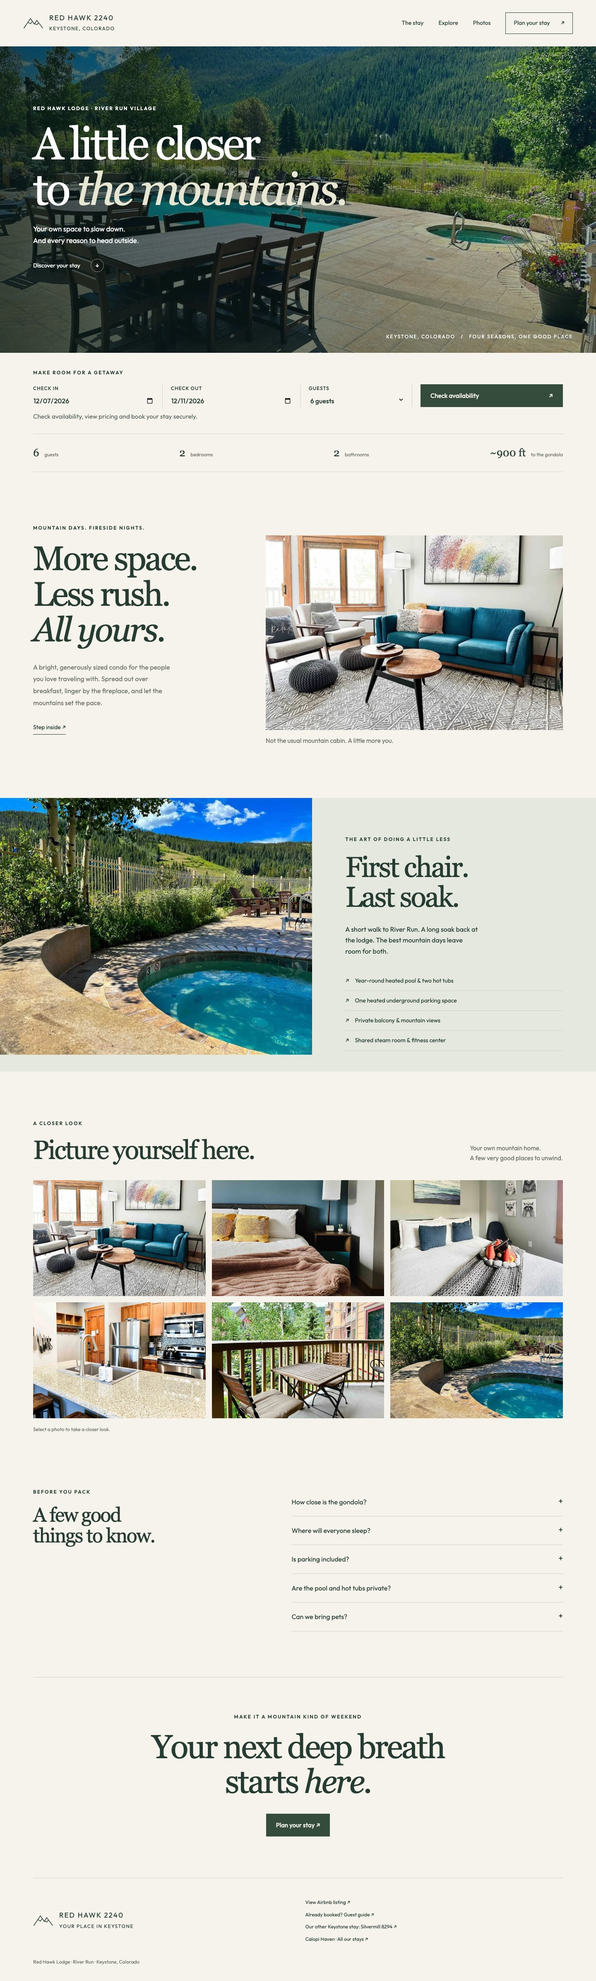
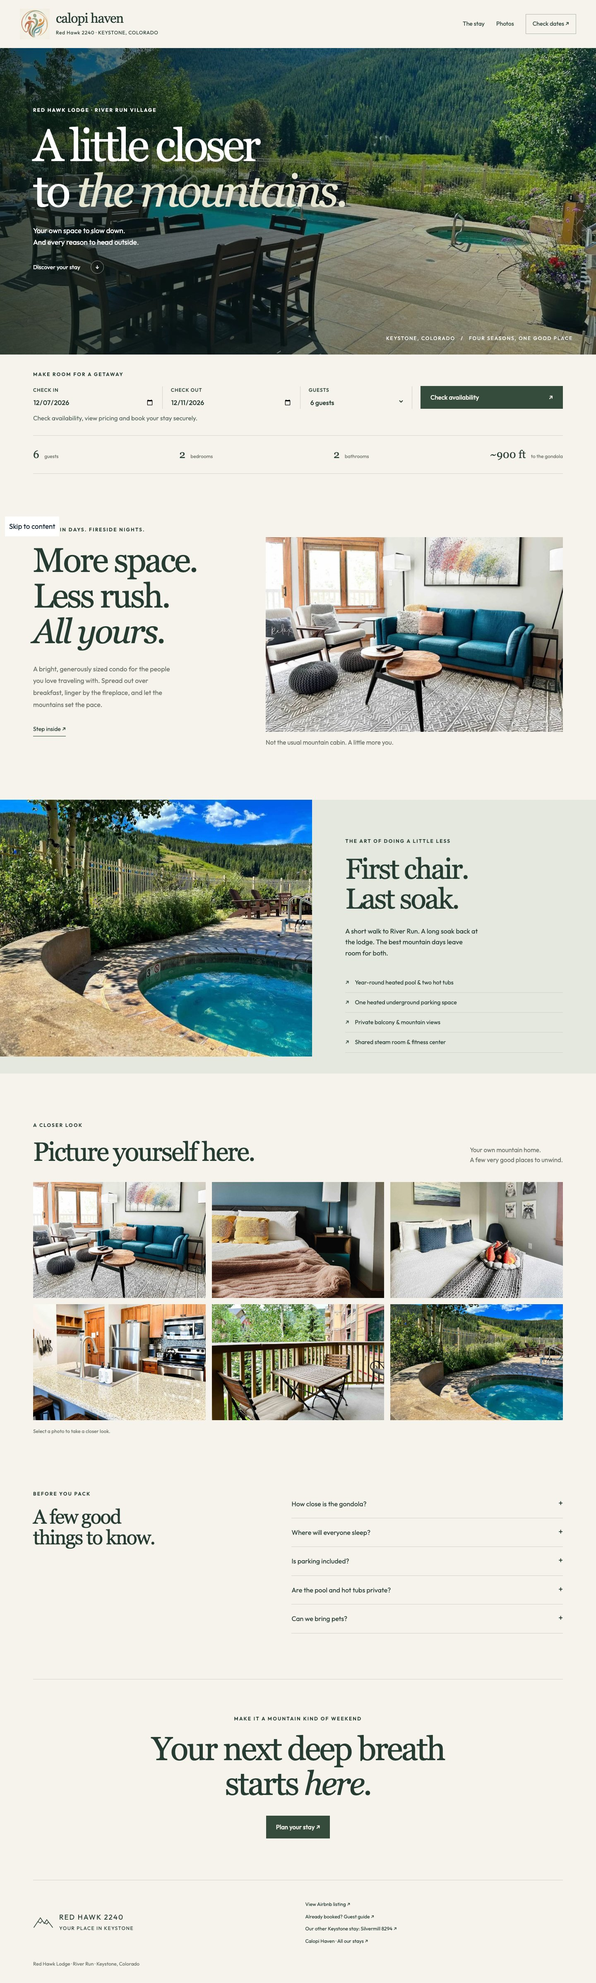
Share the Calopi Haven header across both property sites

diff --git a/silvermill.html b/silvermill.html
@@ -1,3 +1,3 @@
 <!DOCTYPE html>
 
-<html lang="en"><head><meta charset="utf-8"/><meta content="width=device-width, initial-scale=1" name="viewport"/><meta content="noindex,nofollow" name="robots"/><title>Silvermill 8294 | Your River Run Village retreat</title><meta content="Stay at Silvermill 8294 in Keystone: a renovated one-bedroom condo for up to 4 adults and 1 child in River Run Village, with hot tubs and a short walk to the gondola. Book your stay directly." name="description"/><link href="assets/favicon.svg" rel="icon" type="image/svg+xml"/><link href="styles.css" rel="stylesheet"/></head><body class="alpine selected-site"><a class="skip-link" href="#main">Skip to content</a><header class="site-header"><a class="brand" data-preview-path="silvermill.html" href="https://silvermill8294.com/"><svg aria-hidden="true" viewbox="0 0 64 40"><path d="M2 36 23 5l12 18 8-12 19 25M15 17l8 5 5-7M36 21l7 4 5-6" fill="none" stroke="currentColor" stroke-width="2"></path></svg><span>SILVERMILL <b>8294</b><small>KEYSTONE, COLORADO</small></span></a><nav aria-label="Main navigation"><a href="#stay">The stay</a><a href="#explore">Explore</a><a href="#gallery">Photos</a><a class="nav-book" href="#book">Plan your stay <span>↗</span></a></nav></header><main id="main"><section class="alpine-hero"><img alt="Snow-covered River Run Village and Keystone mountains at dusk" class="hero-image" fetchpriority="high" loading="eager" src="assets/silvermill/81.webp"/><div class="hero-shade"></div><div class="alpine-hero-copy wrap"><p class="eyebrow">SILVERMILL LODGE · RIVER RUN VILLAGE</p><h1>A little closer<br/>to <em>everything.</em></h1><p>Village mornings. Mountain days.<br/>Your own place in the middle of it all.</p><a class="hero-link" href="#stay">Discover your stay <span>↓</span></a></div><span class="hero-coordinate">KEYSTONE, COLORADO   /   FOUR SEASONS, ONE GOOD PLACE</span></section><section class="alpine-book wrap" id="book"><p class="eyebrow">MAKE ROOM FOR A GETAWAY</p><form action="https://app.ownerrez.com/widgets/c10114d38806484bbd3c7bfd9bf4858e" class="booking-form" data-max-adults="4" data-max-children="1" data-max-guests="5" method="get"><input name="view" type="hidden" value="form"/><input name="propertyKey" type="hidden" value="3f15f3b1b0f548328ab5276d7014358a"/><label>CHECK IN<input aria-label="Check-in date" name="or_arrival" required="" type="date"/></label><label>CHECK OUT<input aria-label="Check-out date" name="or_departure" required="" type="date"/></label><label>ADULTS<select aria-label="Adults" name="or_adults"><option value="1">1 adult</option><option selected="" value="2">2 adults</option><option value="3">3 adults</option><option value="4">4 adults</option></select></label><label>CHILDREN<select aria-label="Children" name="or_children"><option value="0">0 children</option><option value="1">1 child</option></select></label><button class="button" type="submit">Check availability <span>↗</span></button><p class="date-error" role="alert"></p></form><p class="booking-handoff">Check availability, view pricing and book your stay securely.</p></section><div class="facts wrap"><span><b>4 + 1</b> adults + child</span><span><b>1</b> bedroom</span><span><b>1</b> bathroom</span><span><b>&lt;700 ft</b> to the gondola</span></div><section class="editorial wrap" id="stay"><div><p class="eyebrow">A SMALLER STAY. A LITTLE MORE EASE.</p><h2>Village life.<br/>Mountain views.<br/><em>All yours.</em></h2><p>A renovated fifth-floor retreat for couples, small families and a few favorite friends. Slow mornings in a king bed. Coffee by the window. Evenings around the fireplace after a day on the mountain.</p><a class="underlink" href="#gallery">Step inside ↗</a></div><figure><button aria-label="Enlarge: Silvermill living room with a sectional sofa and village views" class="photo" data-caption="Silvermill living room with a sectional sofa and village views" data-photo="assets/silvermill/08.webp"><img alt="Silvermill living room with a sectional sofa and village views" loading="lazy" src="assets/silvermill/08.webp"/></button><figcaption>Room to settle in. Every reason to step outside.</figcaption></figure></section><section class="amenity-story" id="explore"><div class="amenity-photo"><img alt="Outdoor hot tubs in the Silvermill courtyard" loading="lazy" src="assets/silvermill/49.webp"/></div><div><p class="eyebrow">THE VILLAGE AT YOUR DOORSTEP</p><h2>First chair.<br/>Last soak.</h2><p>Walk through River Run Village to the gondola in under three minutes. Come home to a soak in the shared courtyard hot tubs, or find your next favorite spot for dinner just outside.</p><ul class="amenity-list"><li>On-site shared hot tubs &amp; sauna</li><li>Year-round heated pool at nearby Dakota Lodge</li><li>One heated underground parking space</li><li>Private ski locker, fitness center &amp; billiards lounge</li></ul></div></section><section class="gallery-section wrap" id="gallery"><div class="section-top"><div><p class="eyebrow">A CLOSER LOOK</p><h2>Picture yourself here.</h2></div><p>Your River Run retreat.<br/>A few very good places to unwind.</p></div><div class="gallery-grid"><button aria-label="Enlarge: Living room with fireplace and mountain-inspired artwork" class="photo" data-caption="Living room with fireplace and mountain-inspired artwork" data-photo="assets/silvermill/00.webp"><img alt="Living room with fireplace and mountain-inspired artwork" loading="lazy" src="assets/silvermill/00.webp"/></button><button aria-label="Enlarge: King bedroom with soft linens and an upholstered headboard" class="photo" data-caption="King bedroom with soft linens and an upholstered headboard" data-photo="assets/silvermill/21.webp"><img alt="King bedroom with soft linens and an upholstered headboard" loading="lazy" src="assets/silvermill/21.webp"/></button><button aria-label="Enlarge: Full kitchen with breakfast bar seating" class="photo" data-caption="Full kitchen with breakfast bar seating" data-photo="assets/silvermill/10.webp"><img alt="Full kitchen with breakfast bar seating" loading="lazy" src="assets/silvermill/10.webp"/></button><button aria-label="Enlarge: Bedroom workspace overlooking River Run Village" class="photo" data-caption="Bedroom workspace overlooking River Run Village" data-photo="assets/silvermill/25.webp"><img alt="Bedroom workspace overlooking River Run Village" loading="lazy" src="assets/silvermill/25.webp"/></button><button aria-label="Enlarge: Bathroom with shower and bathtub" class="photo" data-caption="Bathroom with shower and bathtub" data-photo="assets/silvermill/28.webp"><img alt="Bathroom with shower and bathtub" loading="lazy" src="assets/silvermill/28.webp"/></button><button aria-label="Enlarge: Shared billiards lounge at Silvermill Lodge" class="photo" data-caption="Shared billiards lounge at Silvermill Lodge" data-photo="assets/silvermill/53.webp"><img alt="Shared billiards lounge at Silvermill Lodge" loading="lazy" src="assets/silvermill/53.webp"/></button></div><p class="gallery-note">Select a photo to take a closer look.</p></section><section class="faq wrap"><div><p class="eyebrow">BEFORE YOU PACK</p><h2>A few good<br/>things to know.</h2></div><div><details><summary>How close is the gondola?</summary><p>The condo is in River Run Village, less than 700 feet from the River Run Gondola. Walk through the village to reach the lift, dining and shops.</p></details><details><summary>Where will everyone sleep?</summary><p>The one-bedroom condo sleeps up to 4 adults and 1 child, with a king bed, a twin sleeper chair in the bedroom and a pull-out sofa in the living room. There is one full bathroom.</p></details><details><summary>Is parking included?</summary><p>One heated underground garage parking space and a private ski locker are included. An elevator serves the building. Additional vehicles need separate parking arrangements.</p></details><details><summary>Where are the pool and hot tubs?</summary><p>The shared hot tubs are on site at Silvermill. The year-round heated pool is accessed at nearby Dakota Lodge. All shared amenities are subject to building access and maintenance.</p></details><details><summary>What are the check-in and check-out times?</summary><p>Check-in is after 4 PM and check-out is before 10 AM. Already booked? Use the guest guide linked below for arrival instructions.</p></details><details><summary>Where can I see the rental policies?</summary><p>Pricing and booking terms are shown for your selected stay. Review the rental agreement and cancellation policy before completing your reservation.</p></details></div></section><section class="closing wrap"><p class="eyebrow">MAKE IT A MOUNTAIN KIND OF WEEKEND</p><h2>Your next deep breath<br/>starts <em>here.</em></h2><a class="button" href="#book">Plan your stay ↗</a></section></main><footer class="site-footer wrap"><a class="brand" data-preview-path="silvermill.html" href="https://silvermill8294.com/"><svg aria-hidden="true" viewbox="0 0 64 40"><path d="M2 36 23 5l12 18 8-12 19 25M15 17l8 5 5-7M36 21l7 4 5-6" fill="none" stroke="currentColor" stroke-width="2"></path></svg><span>SILVERMILL <b>8294</b><small>YOUR PLACE IN KEYSTONE</small></span></a><div><a href="https://www.airbnb.com/rooms/1237080165740047360" rel="noopener" target="_blank">View Airbnb listing ↗</a><a href="http://checkin.silvermill8294.com/" rel="noopener" target="_blank">Already booked? Guest guide ↗</a><a data-preview-path="redhawk.html" href="https://redhawk2240.com/">Our other Keystone stay: Red Hawk 2240 ↗</a><a data-preview-path="index.html" href="https://calopihaven.com/">Calopi Haven · All our stays ↗</a></div><p>Silvermill Lodge · River Run · Keystone, Colorado</p></footer><dialog class="lightbox"><button aria-label="Close photo" class="dialog-close">×</button><img alt=""/><p></p><div class="lightbox-controls"><button aria-label="Previous photo" data-direction="-1">← Previous</button><button aria-label="Next photo" data-direction="1">Next →</button></div></dialog><script src="site.js"></script></body></html>
+<html lang="en"><head><meta charset="utf-8"/><meta content="width=device-width, initial-scale=1" name="viewport"/><meta content="noindex,nofollow" name="robots"/><title>Silvermill 8294 | Your River Run Village retreat</title><meta content="Stay at Silvermill 8294 in Keystone: a renovated one-bedroom condo for up to 4 adults and 1 child in River Run Village, with hot tubs and a short walk to the gondola. Book your stay directly." name="description"/><link href="assets/calopi-favicon.png" rel="icon" type="image/png"/><link href="styles.css" rel="stylesheet"/><link href="calopi.css" rel="stylesheet"/></head><body class="alpine selected-site"><a class="skip-link" href="#main">Skip to content</a><header class="haven-header property-header"><a aria-label="Calopi Haven home" class="haven-brand" data-preview-path="index.html" href="https://calopihaven.com/"><img alt="" class="calopi-logo" height="1024" src="assets/calopi-logo.png" width="987"/><span>calopi haven<small class="property-identity">Silvermill 8294 · KEYSTONE, COLORADO</small></span></a><nav aria-label="Main navigation"><a href="#stay">The stay</a><a href="#gallery">Photos</a><a class="haven-outline" href="#book">Check dates ↗</a></nav></header><main id="main"><section class="alpine-hero"><img alt="Snow-covered River Run Village and Keystone mountains at dusk" class="hero-image" fetchpriority="high" loading="eager" src="assets/silvermill/81.webp"/><div class="hero-shade"></div><div class="alpine-hero-copy wrap"><p class="eyebrow">SILVERMILL LODGE · RIVER RUN VILLAGE</p><h1>A little closer<br/>to <em>everything.</em></h1><p>Village mornings. Mountain days.<br/>Your own place in the middle of it all.</p><a class="hero-link" href="#stay">Discover your stay <span>↓</span></a></div><span class="hero-coordinate">KEYSTONE, COLORADO   /   FOUR SEASONS, ONE GOOD PLACE</span></section><section class="alpine-book wrap" id="book"><p class="eyebrow">MAKE ROOM FOR A GETAWAY</p><form action="https://app.ownerrez.com/widgets/c10114d38806484bbd3c7bfd9bf4858e" class="booking-form" data-max-adults="4" data-max-children="1" data-max-guests="5" method="get"><input name="view" type="hidden" value="form"/><input name="propertyKey" type="hidden" value="3f15f3b1b0f548328ab5276d7014358a"/><label>CHECK IN<input aria-label="Check-in date" name="or_arrival" required="" type="date"/></label><label>CHECK OUT<input aria-label="Check-out date" name="or_departure" required="" type="date"/></label><label>ADULTS<select aria-label="Adults" name="or_adults"><option value="1">1 adult</option><option selected="" value="2">2 adults</option><option value="3">3 adults</option><option value="4">4 adults</option></select></label><label>CHILDREN<select aria-label="Children" name="or_children"><option value="0">0 children</option><option value="1">1 child</option></select></label><button class="button" type="submit">Check availability <span>↗</span></button><p class="date-error" role="alert"></p></form><p class="booking-handoff">Check availability, view pricing and book your stay securely.</p></section><div class="facts wrap"><span><b>4 + 1</b> adults + child</span><span><b>1</b> bedroom</span><span><b>1</b> bathroom</span><span><b>&lt;700 ft</b> to the gondola</span></div><section class="editorial wrap" id="stay"><div><p class="eyebrow">A SMALLER STAY. A LITTLE MORE EASE.</p><h2>Village life.<br/>Mountain views.<br/><em>All yours.</em></h2><p>A renovated fifth-floor retreat for couples, small families and a few favorite friends. Slow mornings in a king bed. Coffee by the window. Evenings around the fireplace after a day on the mountain.</p><a class="underlink" href="#gallery">Step inside ↗</a></div><figure><button aria-label="Enlarge: Silvermill living room with a sectional sofa and village views" class="photo" data-caption="Silvermill living room with a sectional sofa and village views" data-photo="assets/silvermill/08.webp"><img alt="Silvermill living room with a sectional sofa and village views" loading="lazy" src="assets/silvermill/08.webp"/></button><figcaption>Room to settle in. Every reason to step outside.</figcaption></figure></section><section class="amenity-story" id="explore"><div class="amenity-photo"><img alt="Outdoor hot tubs in the Silvermill courtyard" loading="lazy" src="assets/silvermill/49.webp"/></div><div><p class="eyebrow">THE VILLAGE AT YOUR DOORSTEP</p><h2>First chair.<br/>Last soak.</h2><p>Walk through River Run Village to the gondola in under three minutes. Come home to a soak in the shared courtyard hot tubs, or find your next favorite spot for dinner just outside.</p><ul class="amenity-list"><li>On-site shared hot tubs &amp; sauna</li><li>Year-round heated pool at nearby Dakota Lodge</li><li>One heated underground parking space</li><li>Private ski locker, fitness center &amp; billiards lounge</li></ul></div></section><section class="gallery-section wrap" id="gallery"><div class="section-top"><div><p class="eyebrow">A CLOSER LOOK</p><h2>Picture yourself here.</h2></div><p>Your River Run retreat.<br/>A few very good places to unwind.</p></div><div class="gallery-grid"><button aria-label="Enlarge: Living room with fireplace and mountain-inspired artwork" class="photo" data-caption="Living room with fireplace and mountain-inspired artwork" data-photo="assets/silvermill/00.webp"><img alt="Living room with fireplace and mountain-inspired artwork" loading="lazy" src="assets/silvermill/00.webp"/></button><button aria-label="Enlarge: King bedroom with soft linens and an upholstered headboard" class="photo" data-caption="King bedroom with soft linens and an upholstered headboard" data-photo="assets/silvermill/21.webp"><img alt="King bedroom with soft linens and an upholstered headboard" loading="lazy" src="assets/silvermill/21.webp"/></button><button aria-label="Enlarge: Full kitchen with breakfast bar seating" class="photo" data-caption="Full kitchen with breakfast bar seating" data-photo="assets/silvermill/10.webp"><img alt="Full kitchen with breakfast bar seating" loading="lazy" src="assets/silvermill/10.webp"/></button><button aria-label="Enlarge: Bedroom workspace overlooking River Run Village" class="photo" data-caption="Bedroom workspace overlooking River Run Village" data-photo="assets/silvermill/25.webp"><img alt="Bedroom workspace overlooking River Run Village" loading="lazy" src="assets/silvermill/25.webp"/></button><button aria-label="Enlarge: Bathroom with shower and bathtub" class="photo" data-caption="Bathroom with shower and bathtub" data-photo="assets/silvermill/28.webp"><img alt="Bathroom with shower and bathtub" loading="lazy" src="assets/silvermill/28.webp"/></button><button aria-label="Enlarge: Shared billiards lounge at Silvermill Lodge" class="photo" data-caption="Shared billiards lounge at Silvermill Lodge" data-photo="assets/silvermill/53.webp"><img alt="Shared billiards lounge at Silvermill Lodge" loading="lazy" src="assets/silvermill/53.webp"/></button></div><p class="gallery-note">Select a photo to take a closer look.</p></section><section class="faq wrap"><div><p class="eyebrow">BEFORE YOU PACK</p><h2>A few good<br/>things to know.</h2></div><div><details><summary>How close is the gondola?</summary><p>The condo is in River Run Village, less than 700 feet from the River Run Gondola. Walk through the village to reach the lift, dining and shops.</p></details><details><summary>Where will everyone sleep?</summary><p>The one-bedroom condo sleeps up to 4 adults and 1 child, with a king bed, a twin sleeper chair in the bedroom and a pull-out sofa in the living room. There is one full bathroom.</p></details><details><summary>Is parking included?</summary><p>One heated underground garage parking space and a private ski locker are included. An elevator serves the building. Additional vehicles need separate parking arrangements.</p></details><details><summary>Where are the pool and hot tubs?</summary><p>The shared hot tubs are on site at Silvermill. The year-round heated pool is accessed at nearby Dakota Lodge. All shared amenities are subject to building access and maintenance.</p></details><details><summary>What are the check-in and check-out times?</summary><p>Check-in is after 4 PM and check-out is before 10 AM. Already booked? Use the guest guide linked below for arrival instructions.</p></details><details><summary>Where can I see the rental policies?</summary><p>Pricing and booking terms are shown for your selected stay. Review the rental agreement and cancellation policy before completing your reservation.</p></details></div></section><section class="closing wrap"><p class="eyebrow">MAKE IT A MOUNTAIN KIND OF WEEKEND</p><h2>Your next deep breath<br/>starts <em>here.</em></h2><a class="button" href="#book">Plan your stay ↗</a></section></main><footer class="site-footer wrap"><a class="brand" data-preview-path="silvermill.html" href="https://silvermill8294.com/"><svg aria-hidden="true" viewbox="0 0 64 40"><path d="M2 36 23 5l12 18 8-12 19 25M15 17l8 5 5-7M36 21l7 4 5-6" fill="none" stroke="currentColor" stroke-width="2"></path></svg><span>SILVERMILL <b>8294</b><small>YOUR PLACE IN KEYSTONE</small></span></a><div><a href="https://www.airbnb.com/rooms/1237080165740047360" rel="noopener" target="_blank">View Airbnb listing ↗</a><a href="http://checkin.silvermill8294.com/" rel="noopener" target="_blank">Already booked? Guest guide ↗</a><a data-preview-path="redhawk.html" href="https://redhawk2240.com/">Our other Keystone stay: Red Hawk 2240 ↗</a><a data-preview-path="index.html" href="https://calopihaven.com/">Calopi Haven · All our stays ↗</a></div><p>Silvermill Lodge · River Run · Keystone, Colorado</p></footer><dialog class="lightbox"><button aria-label="Close photo" class="dialog-close">×</button><img alt=""/><p></p><div class="lightbox-controls"><button aria-label="Previous photo" data-direction="-1">← Previous</button><button aria-label="Next photo" data-direction="1">Next →</button></div></dialog><script src="site.js"></script></body></html>

diff --git a/redhawk.html b/redhawk.html
@@ -1,3 +1,3 @@
 <!DOCTYPE html>
 
-<html lang="en"><head><meta charset="utf-8"/><meta content="width=device-width, initial-scale=1" name="viewport"/><meta content="noindex,nofollow" name="robots"/><title>Red Hawk 2240 | A mountain stay in Keystone</title><meta content="Stay at Red Hawk 2240 in Keystone: two bedrooms, space for six, a pool and hot tubs near River Run. Check dates and book your stay directly." name="description"/><link href="assets/favicon.svg" rel="icon" type="image/svg+xml"/><link href="styles.css" rel="stylesheet"/></head><body class="alpine selected-site"><a class="skip-link" href="#main">Skip to content</a><header class="site-header"><a class="brand" data-preview-path="redhawk.html" href="https://redhawk2240.com/"><svg aria-hidden="true" viewbox="0 0 64 40"><path d="M2 36 23 5l12 18 8-12 19 25M15 17l8 5 5-7M36 21l7 4 5-6" fill="none" stroke="currentColor" stroke-width="2"></path></svg><span>RED HAWK <b>2240</b><small>KEYSTONE, COLORADO</small></span></a><nav aria-label="Main navigation"><a href="#stay">The stay</a><a href="#explore">Explore</a><a href="#gallery">Photos</a><a class="nav-book" href="#book">Plan your stay <span>↗</span></a></nav></header><main id="main"><section class="alpine-hero"><img alt="Heated pool and sunlit mountains at Red Hawk Lodge" class="hero-image" height="1080" loading="eager" src="assets/photo-00.webp" width="1440"/><div class="hero-shade"></div><div class="alpine-hero-copy wrap"><p class="eyebrow">RED HAWK LODGE · RIVER RUN VILLAGE</p><h1>A little closer<br/>to <em>the mountains.</em></h1><p>Your own space to slow down.<br/>And every reason to head outside.</p><a class="hero-link" href="#stay">Discover your stay <span>↓</span></a></div><span class="hero-coordinate">KEYSTONE, COLORADO   /   FOUR SEASONS, ONE GOOD PLACE</span></section><section class="alpine-book wrap" id="book"><p class="eyebrow">MAKE ROOM FOR A GETAWAY</p><form action="https://app.ownerrez.com/widgets/f13cd4d5594545a4b410a094355b8b4d" class="booking-form" method="get"><input name="view" type="hidden" value="form"/><input name="propertyKey" type="hidden" value="bc7244c04d284b70baab4dede8d52fb0"/><label>CHECK IN<input aria-label="Check-in date" name="or_arrival" required="" type="date"/></label><label>CHECK OUT<input aria-label="Check-out date" name="or_departure" required="" type="date"/></label><label>GUESTS<select aria-label="Guests" name="or_guests"><option value="1">1 guest</option><option selected="" value="2">2 guests</option><option value="3">3 guests</option><option value="4">4 guests</option><option value="5">5 guests</option><option value="6">6 guests</option></select></label><button class="button" type="submit">Check availability <span>↗</span></button><p class="date-error" role="alert"></p></form><p class="booking-handoff">Check availability, view pricing and book your stay securely.</p></section><div class="facts wrap"><span><b>6</b> guests</span><span><b>2</b> bedrooms</span><span><b>2</b> bathrooms</span><span><b>~900 ft</b> to the gondola</span></div><section class="editorial wrap" id="stay"><div><p class="eyebrow">MOUNTAIN DAYS. FIRESIDE NIGHTS.</p><h2>More space.<br/>Less rush.<br/><em>All yours.</em></h2><p>A bright, generously sized condo for the people you love traveling with. Spread out over breakfast, linger by the fireplace, and let the mountains set the pace.</p><a class="underlink" href="#gallery">Step inside ↗</a></div><figure><button aria-label="Enlarge: Contemporary living room with teal sofa and warm wood finishes" class="photo" data-caption="Contemporary living room with teal sofa and warm wood finishes" data-photo="assets/photo-01.webp"><img alt="Contemporary living room with teal sofa and warm wood finishes" class="" height="1080" loading="lazy" src="assets/photo-01.webp" width="1440"/></button><figcaption>Not the usual mountain cabin. A little more you.</figcaption></figure></section><section class="amenity-story" id="explore"><div class="amenity-photo"><img alt="Outdoor hot tub surrounded by aspens and mountain scenery" class="" height="1080" loading="lazy" src="assets/photo-24.webp" width="1440"/></div><div><p class="eyebrow">THE ART OF DOING A LITTLE LESS</p><h2>First chair.<br/>Last soak.</h2><p>A short walk to River Run. A long soak back at the lodge. The best mountain days leave room for both.</p><ul class="amenity-list"><li>Year-round heated pool &amp; two hot tubs</li><li>One heated underground parking space</li><li>Private balcony &amp; mountain views</li><li>Shared steam room &amp; fitness center</li></ul></div></section><section class="gallery-section wrap" id="gallery"><div class="section-top"><div><p class="eyebrow">A CLOSER LOOK</p><h2>Picture yourself here.</h2></div><p>Your own mountain home.<br/>A few very good places to unwind.</p></div><div class="gallery-grid"><button aria-label="Enlarge: Bright living room with teal sofa and mountain light" class="photo" data-caption="Bright living room with teal sofa and mountain light" data-photo="assets/photo-01.webp"><img alt="Bright living room with teal sofa and mountain light" class="" height="1080" loading="lazy" src="assets/photo-01.webp" width="1440"/></button><button aria-label="Enlarge: King bedroom with an ensuite bathroom" class="photo" data-caption="King bedroom with an ensuite bathroom" data-photo="assets/photo-09.webp"><img alt="King bedroom with an ensuite bathroom" class="" height="1080" loading="lazy" src="assets/photo-09.webp" width="1440"/></button><button aria-label="Enlarge: Queen bedroom with large windows" class="photo" data-caption="Queen bedroom with large windows" data-photo="assets/photo-12.webp"><img alt="Queen bedroom with large windows" class="" height="1080" loading="lazy" src="assets/photo-12.webp" width="1440"/></button><button aria-label="Enlarge: Fully equipped kitchen and breakfast counter" class="photo" data-caption="Fully equipped kitchen and breakfast counter" data-photo="assets/photo-14.webp"><img alt="Fully equipped kitchen and breakfast counter" class="" height="1080" loading="lazy" src="assets/photo-14.webp" width="1440"/></button><button aria-label="Enlarge: Private balcony framed by aspen trees" class="photo" data-caption="Private balcony framed by aspen trees" data-photo="assets/photo-05.webp"><img alt="Private balcony framed by aspen trees" class="" height="1080" loading="lazy" src="assets/photo-05.webp" width="1440"/></button><button aria-label="Enlarge: Shared outdoor hot tub with mountain views" class="photo" data-caption="Shared outdoor hot tub with mountain views" data-photo="assets/photo-24.webp"><img alt="Shared outdoor hot tub with mountain views" class="" height="1080" loading="lazy" src="assets/photo-24.webp" width="1440"/></button></div><p class="gallery-note">Select a photo to take a closer look.</p></section><section class="faq wrap"><div><p class="eyebrow">BEFORE YOU PACK</p><h2>A few good<br/>things to know.</h2></div><div><details><summary>How close is the gondola?</summary><p>The listing describes an approximately 900-foot walk to the River Run Gondola and Village. Bring comfortable shoes for the short walk.</p></details><details><summary>Where will everyone sleep?</summary><p>A king bedroom, a queen bedroom and a fold-away Murphy bed give your group room to settle in. The condo accommodates up to six overnight guests, with two full bathrooms.</p></details><details><summary>Is parking included?</summary><p>One space in the heated underground garage is included. An elevator serves the building. Additional vehicles need separate parking arrangements.</p></details><details><summary>Are the pool and hot tubs private?</summary><p>The heated pool, two hot tubs, steam room, fitness center and game room are shared Red Hawk Lodge amenities, subject to building access and maintenance.</p></details><details><summary>Can we bring pets?</summary><p>The current house rules do not allow pets or smoking. Please review the full rules and current conditions before reserving.</p></details></div></section><section class="closing wrap"><p class="eyebrow">MAKE IT A MOUNTAIN KIND OF WEEKEND</p><h2>Your next deep breath<br/>starts <em>here.</em></h2><a class="button" href="#book">Plan your stay ↗</a></section></main><footer class="site-footer wrap"><a class="brand" data-preview-path="redhawk.html" href="https://redhawk2240.com/"><svg aria-hidden="true" viewbox="0 0 64 40"><path d="M2 36 23 5l12 18 8-12 19 25M15 17l8 5 5-7M36 21l7 4 5-6" fill="none" stroke="currentColor" stroke-width="2"></path></svg><span>RED HAWK <b>2240</b><small>YOUR PLACE IN KEYSTONE</small></span></a><div><a href="https://www.airbnb.com/rooms/45842208" rel="noopener" target="_blank">View Airbnb listing ↗</a><a href="https://checkin.redhawk2240.com" rel="noopener" target="_blank">Already booked? Guest guide ↗</a><a data-preview-path="silvermill.html" href="https://silvermill8294.com/">Our other Keystone stay: Silvermill 8294 ↗</a><a data-preview-path="index.html" href="https://calopihaven.com/">Calopi Haven · All our stays ↗</a></div><p>Red Hawk Lodge · River Run · Keystone, Colorado</p></footer><dialog class="lightbox"><button aria-label="Close photo" class="dialog-close">×</button><img alt=""/><p></p><div class="lightbox-controls"><button aria-label="Previous photo" data-direction="-1">← Previous</button><button aria-label="Next photo" data-direction="1">Next →</button></div></dialog><script src="site.js"></script></body></html>
+<html lang="en"><head><meta charset="utf-8"/><meta content="width=device-width, initial-scale=1" name="viewport"/><meta content="noindex,nofollow" name="robots"/><title>Red Hawk 2240 | A mountain stay in Keystone</title><meta content="Stay at Red Hawk 2240 in Keystone: two bedrooms, space for six, a pool and hot tubs near River Run. Check dates and book your stay directly." name="description"/><link href="assets/calopi-favicon.png" rel="icon" type="image/png"/><link href="styles.css" rel="stylesheet"/><link href="calopi.css" rel="stylesheet"/></head><body class="alpine selected-site"><a class="skip-link" href="#main">Skip to content</a><header class="haven-header property-header"><a aria-label="Calopi Haven home" class="haven-brand" data-preview-path="index.html" href="https://calopihaven.com/"><img alt="" class="calopi-logo" height="1024" src="assets/calopi-logo.png" width="987"/><span>calopi haven<small class="property-identity">Red Hawk 2240 · KEYSTONE, COLORADO</small></span></a><nav aria-label="Main navigation"><a href="#stay">The stay</a><a href="#gallery">Photos</a><a class="haven-outline" href="#book">Check dates ↗</a></nav></header><main id="main"><section class="alpine-hero"><img alt="Heated pool and sunlit mountains at Red Hawk Lodge" class="hero-image" height="1080" loading="eager" src="assets/photo-00.webp" width="1440"/><div class="hero-shade"></div><div class="alpine-hero-copy wrap"><p class="eyebrow">RED HAWK LODGE · RIVER RUN VILLAGE</p><h1>A little closer<br/>to <em>the mountains.</em></h1><p>Your own space to slow down.<br/>And every reason to head outside.</p><a class="hero-link" href="#stay">Discover your stay <span>↓</span></a></div><span class="hero-coordinate">KEYSTONE, COLORADO   /   FOUR SEASONS, ONE GOOD PLACE</span></section><section class="alpine-book wrap" id="book"><p class="eyebrow">MAKE ROOM FOR A GETAWAY</p><form action="https://app.ownerrez.com/widgets/f13cd4d5594545a4b410a094355b8b4d" class="booking-form" method="get"><input name="view" type="hidden" value="form"/><input name="propertyKey" type="hidden" value="bc7244c04d284b70baab4dede8d52fb0"/><label>CHECK IN<input aria-label="Check-in date" name="or_arrival" required="" type="date"/></label><label>CHECK OUT<input aria-label="Check-out date" name="or_departure" required="" type="date"/></label><label>GUESTS<select aria-label="Guests" name="or_guests"><option value="1">1 guest</option><option selected="" value="2">2 guests</option><option value="3">3 guests</option><option value="4">4 guests</option><option value="5">5 guests</option><option value="6">6 guests</option></select></label><button class="button" type="submit">Check availability <span>↗</span></button><p class="date-error" role="alert"></p></form><p class="booking-handoff">Check availability, view pricing and book your stay securely.</p></section><div class="facts wrap"><span><b>6</b> guests</span><span><b>2</b> bedrooms</span><span><b>2</b> bathrooms</span><span><b>~900 ft</b> to the gondola</span></div><section class="editorial wrap" id="stay"><div><p class="eyebrow">MOUNTAIN DAYS. FIRESIDE NIGHTS.</p><h2>More space.<br/>Less rush.<br/><em>All yours.</em></h2><p>A bright, generously sized condo for the people you love traveling with. Spread out over breakfast, linger by the fireplace, and let the mountains set the pace.</p><a class="underlink" href="#gallery">Step inside ↗</a></div><figure><button aria-label="Enlarge: Contemporary living room with teal sofa and warm wood finishes" class="photo" data-caption="Contemporary living room with teal sofa and warm wood finishes" data-photo="assets/photo-01.webp"><img alt="Contemporary living room with teal sofa and warm wood finishes" class="" height="1080" loading="lazy" src="assets/photo-01.webp" width="1440"/></button><figcaption>Not the usual mountain cabin. A little more you.</figcaption></figure></section><section class="amenity-story" id="explore"><div class="amenity-photo"><img alt="Outdoor hot tub surrounded by aspens and mountain scenery" class="" height="1080" loading="lazy" src="assets/photo-24.webp" width="1440"/></div><div><p class="eyebrow">THE ART OF DOING A LITTLE LESS</p><h2>First chair.<br/>Last soak.</h2><p>A short walk to River Run. A long soak back at the lodge. The best mountain days leave room for both.</p><ul class="amenity-list"><li>Year-round heated pool &amp; two hot tubs</li><li>One heated underground parking space</li><li>Private balcony &amp; mountain views</li><li>Shared steam room &amp; fitness center</li></ul></div></section><section class="gallery-section wrap" id="gallery"><div class="section-top"><div><p class="eyebrow">A CLOSER LOOK</p><h2>Picture yourself here.</h2></div><p>Your own mountain home.<br/>A few very good places to unwind.</p></div><div class="gallery-grid"><button aria-label="Enlarge: Bright living room with teal sofa and mountain light" class="photo" data-caption="Bright living room with teal sofa and mountain light" data-photo="assets/photo-01.webp"><img alt="Bright living room with teal sofa and mountain light" class="" height="1080" loading="lazy" src="assets/photo-01.webp" width="1440"/></button><button aria-label="Enlarge: King bedroom with an ensuite bathroom" class="photo" data-caption="King bedroom with an ensuite bathroom" data-photo="assets/photo-09.webp"><img alt="King bedroom with an ensuite bathroom" class="" height="1080" loading="lazy" src="assets/photo-09.webp" width="1440"/></button><button aria-label="Enlarge: Queen bedroom with large windows" class="photo" data-caption="Queen bedroom with large windows" data-photo="assets/photo-12.webp"><img alt="Queen bedroom with large windows" class="" height="1080" loading="lazy" src="assets/photo-12.webp" width="1440"/></button><button aria-label="Enlarge: Fully equipped kitchen and breakfast counter" class="photo" data-caption="Fully equipped kitchen and breakfast counter" data-photo="assets/photo-14.webp"><img alt="Fully equipped kitchen and breakfast counter" class="" height="1080" loading="lazy" src="assets/photo-14.webp" width="1440"/></button><button aria-label="Enlarge: Private balcony framed by aspen trees" class="photo" data-caption="Private balcony framed by aspen trees" data-photo="assets/photo-05.webp"><img alt="Private balcony framed by aspen trees" class="" height="1080" loading="lazy" src="assets/photo-05.webp" width="1440"/></button><button aria-label="Enlarge: Shared outdoor hot tub with mountain views" class="photo" data-caption="Shared outdoor hot tub with mountain views" data-photo="assets/photo-24.webp"><img alt="Shared outdoor hot tub with mountain views" class="" height="1080" loading="lazy" src="assets/photo-24.webp" width="1440"/></button></div><p class="gallery-note">Select a photo to take a closer look.</p></section><section class="faq wrap"><div><p class="eyebrow">BEFORE YOU PACK</p><h2>A few good<br/>things to know.</h2></div><div><details><summary>How close is the gondola?</summary><p>The listing describes an approximately 900-foot walk to the River Run Gondola and Village. Bring comfortable shoes for the short walk.</p></details><details><summary>Where will everyone sleep?</summary><p>A king bedroom, a queen bedroom and a fold-away Murphy bed give your group room to settle in. The condo accommodates up to six overnight guests, with two full bathrooms.</p></details><details><summary>Is parking included?</summary><p>One space in the heated underground garage is included. An elevator serves the building. Additional vehicles need separate parking arrangements.</p></details><details><summary>Are the pool and hot tubs private?</summary><p>The heated pool, two hot tubs, steam room, fitness center and game room are shared Red Hawk Lodge amenities, subject to building access and maintenance.</p></details><details><summary>Can we bring pets?</summary><p>The current house rules do not allow pets or smoking. Please review the full rules and current conditions before reserving.</p></details></div></section><section class="closing wrap"><p class="eyebrow">MAKE IT A MOUNTAIN KIND OF WEEKEND</p><h2>Your next deep breath<br/>starts <em>here.</em></h2><a class="button" href="#book">Plan your stay ↗</a></section></main><footer class="site-footer wrap"><a class="brand" data-preview-path="redhawk.html" href="https://redhawk2240.com/"><svg aria-hidden="true" viewbox="0 0 64 40"><path d="M2 36 23 5l12 18 8-12 19 25M15 17l8 5 5-7M36 21l7 4 5-6" fill="none" stroke="currentColor" stroke-width="2"></path></svg><span>RED HAWK <b>2240</b><small>YOUR PLACE IN KEYSTONE</small></span></a><div><a href="https://www.airbnb.com/rooms/45842208" rel="noopener" target="_blank">View Airbnb listing ↗</a><a href="https://checkin.redhawk2240.com" rel="noopener" target="_blank">Already booked? Guest guide ↗</a><a data-preview-path="silvermill.html" href="https://silvermill8294.com/">Our other Keystone stay: Silvermill 8294 ↗</a><a data-preview-path="index.html" href="https://calopihaven.com/">Calopi Haven · All our stays ↗</a></div><p>Red Hawk Lodge · River Run · Keystone, Colorado</p></footer><dialog class="lightbox"><button aria-label="Close photo" class="dialog-close">×</button><img alt=""/><p></p><div class="lightbox-controls"><button aria-label="Previous photo" data-direction="-1">← Previous</button><button aria-label="Next photo" data-direction="1">Next →</button></div></dialog><script src="site.js"></script></body></html>

diff --git a/calopi.css b/calopi.css
@@ -74,3 +74,8 @@
 @media(max-width:1000px){.haven-header .calopi-logo{width:58px;height:62px}}
 @media(max-width:600px){.calopi-logo{width:58px;height:62px}.haven-header .calopi-logo{width:48px;height:52px}}
 @media(max-width:350px){.haven-header .calopi-logo{width:38px;height:42px}.haven-header .haven-brand{gap:7px}}
+
+/* Property pages share the Calopi identity, with the current home named below. */
+.property-header .haven-brand .property-identity{display:block;font-size:12px;letter-spacing:.06em;line-height:1.6;margin-top:9px}
+@media(max-width:600px){.property-header .haven-brand .property-identity{font-size:12px;letter-spacing:.02em;margin-top:7px}.property-header{padding-block:14px}}
+@media(max-width:350px){.property-header .haven-brand .property-identity{max-width:145px}}

diff --git a/scripts/build_property_sites.py b/scripts/build_property_sites.py
@@ -51,6 +51,20 @@ print('Built selected Alpine sites for Red Hawk and Silvermill.')
 # Public domain links retain working counterparts on the GitHub Pages preview.
 for filename in ('redhawk.html','silvermill.html'):
  page=BeautifulSoup((ROOT/filename).read_text(),'html.parser')
+ # Reuse the current Calopi header so owner-supplied branding stays consistent.
+ brand_page=BeautifulSoup((ROOT/'index.html').read_text(),'html.parser')
+ header=brand_page.select_one('.haven-header')
+ header['class'].append('property-header')
+ property_name='Red Hawk 2240' if filename=='redhawk.html' else 'Silvermill 8294'
+ identity=header.select_one('.haven-brand small')
+ identity.string=property_name+' · KEYSTONE, COLORADO'
+ identity['class']=['property-identity']
+ header.select_one('nav').clear()
+ header.select_one('nav').append(BeautifulSoup('<a href="#stay">The stay</a><a href="#gallery">Photos</a><a class="haven-outline" href="#book">Check dates ↗</a>','html.parser'))
+ page.select_one('.site-header').replace_with(header)
+ page.head.append(page.new_tag('link',rel='stylesheet',href='calopi.css'))
+ page.select_one('link[rel=icon]')['href']='assets/calopi-favicon.png'
+ page.select_one('link[rel=icon]')['type']='image/png'
  for a in page.select('a[href]'):
   href=a['href']
   if href in ('redhawk.html','silvermill.html'):

diff --git a/scripts/check_haven.py b/scripts/check_haven.py
@@ -20,7 +20,7 @@ async def main():
     assert await page.locator('.booking-form').count()==1
     key=await page.locator('[name=propertyKey]').input_value()
     assert key==('bc7244c04d284b70baab4dede8d52fb0' if filename=='redhawk.html' else '3f15f3b1b0f548328ab5276d7014358a')
-    await page.locator('a[data-preview-path="index.html"]').click()
+    await page.locator('a[data-preview-path="index.html"]').first.click()
     assert await page.locator('.haven-property').count()==2
    # Exercise the photo controls and reveal all content before capturing previews.
    slider=page.locator('[data-slider]')
@@ -76,7 +76,7 @@ async def main():
    link=page.locator(f'.haven-property-actions a[href="https://{domain}/"]')
    await link.click();assert urlparse(page.url).hostname==domain
    assert await page.locator('.booking-form').count()==1
-   await page.locator('a[href="https://calopihaven.com/"]').click()
+   await page.locator('a[href="https://calopihaven.com/"]').first.click()
   await browser.close()
  print('PASS: Calopi at 1440/768/390/320px, both preview property journeys, both production domain journeys, correct OwnerRez properties, slider controls, autoplay, pause and reduced motion.')
 if __name__=='__main__':asyncio.run(main())

diff --git a/scripts/check_property_sites.py b/scripts/check_property_sites.py
@@ -20,6 +20,11 @@ async def main():
      assert await page.locator('[name=or_adults] option').count()==4
      assert await page.locator('[name=or_children] option').evaluate_all('(options)=>options.map(o=>o.value)')==['0','1']
     assert await page.locator('.concept-bar').count()==0
+    header=page.locator('.property-header')
+    assert await header.locator('img.calopi-logo').get_attribute('src')=='assets/calopi-logo.png'
+    assert ('Red Hawk 2240' if name=='redhawk' else 'Silvermill 8294') in await header.locator('.property-identity').inner_text()
+    assert await header.locator('.property-identity').is_visible()
+    assert await header.locator('a[data-preview-path="index.html"]').get_attribute('href')=='index.html'
     if name=='silvermill':
      assert await page.locator('img[src*="assets/photo-"]').count()==0
      assert await page.locator('a[href="http://checkin.silvermill8294.com/"]').count()==1

diff --git a/AGENTS.md b/AGENTS.md
@@ -17,8 +17,9 @@ Do not treat it as one site with interchangeable booking widgets.
 - Edit property generators, then regenerate; do not make lasting changes only to
   generated `redhawk.html`, `silvermill.html`, or `alpine.html`.
 - `styles.css`, `site.js`, fonts and photo assets are shared. Shared changes need
-  checks across the main site and both properties. `calopi.css` only styles the
-  brand homepage.
+  checks across the main site and both properties. `calopi.css` styles the
+  brand homepage and shared Calopi header on both property sites. Property
+  headers reuse the main logo/wordmark and name the current property below it.
 - Alpine is the selected property design. `gatherings.html`, `summit.html`,
   `concepts.html` and the older review PDF are historical design concepts.
 - GitHub Pages is the **review preview**, not the production hosting target:
